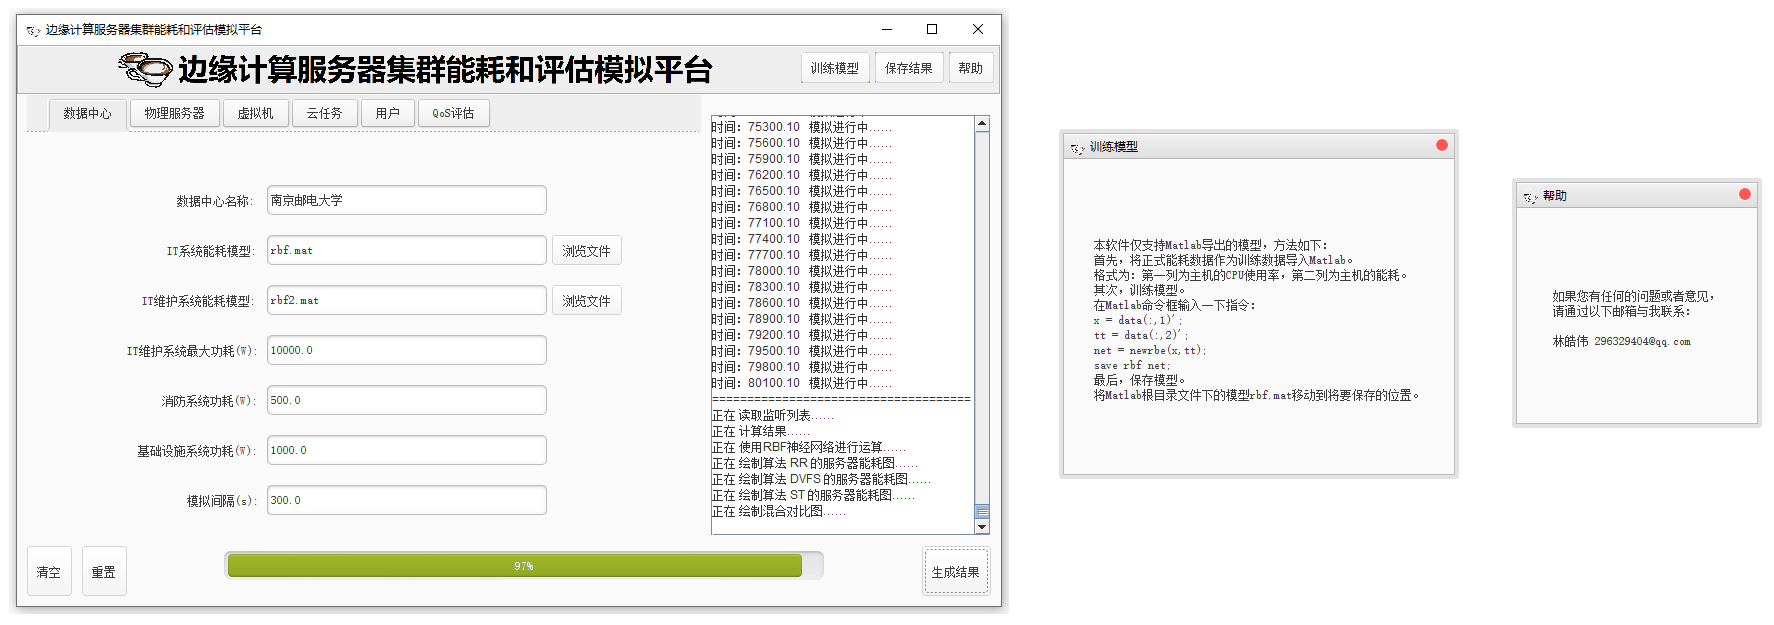
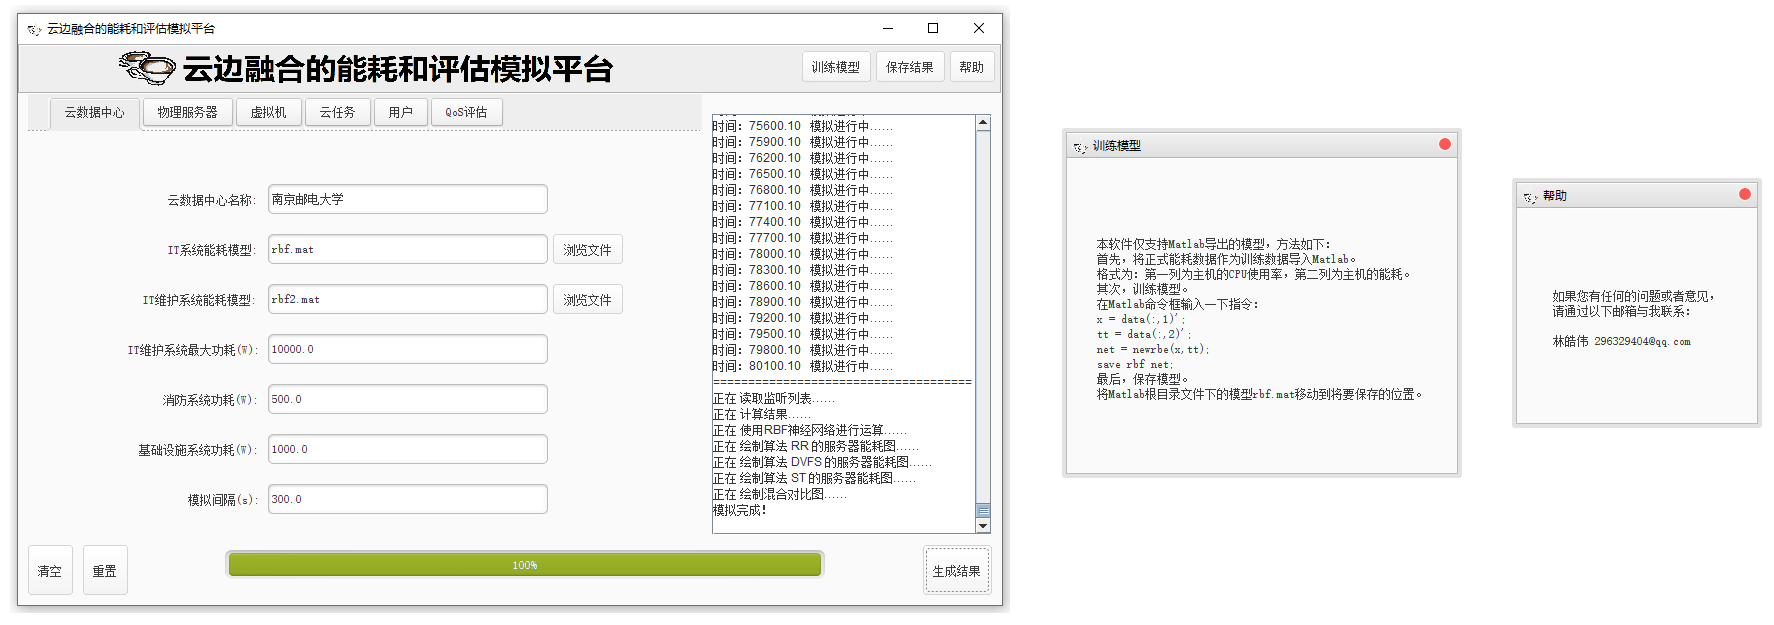
更新UI

diff --git a/README.md b/README.md
@@ -33,7 +33,7 @@ If you found it helpful to you, please give me a star and recommend it to your f
 
 ## Update 更新 （建议使用分支“qosEvaluation”中的版本） 
 ### 2020.12.18 重写分支qosEvaluation的用户界面
-- 分支“qosEvaluation”的CloudSimSEC的中文名称修改为“边缘计算服务器集群能耗和评估模拟平台”
+- 分支“qosEvaluation”的CloudSimSEC的中文名称修改为“云边融合的能耗和评估模拟平台”
 - 重写了分支“qosEvaluation”的CloudSimSEC的用户界面（原来黑色的那个被吐槽太丑了（′▽｀））
 - 导入了UI界面的jar包（根目录下的文件“beautyeye_lnf.jar”）
 
